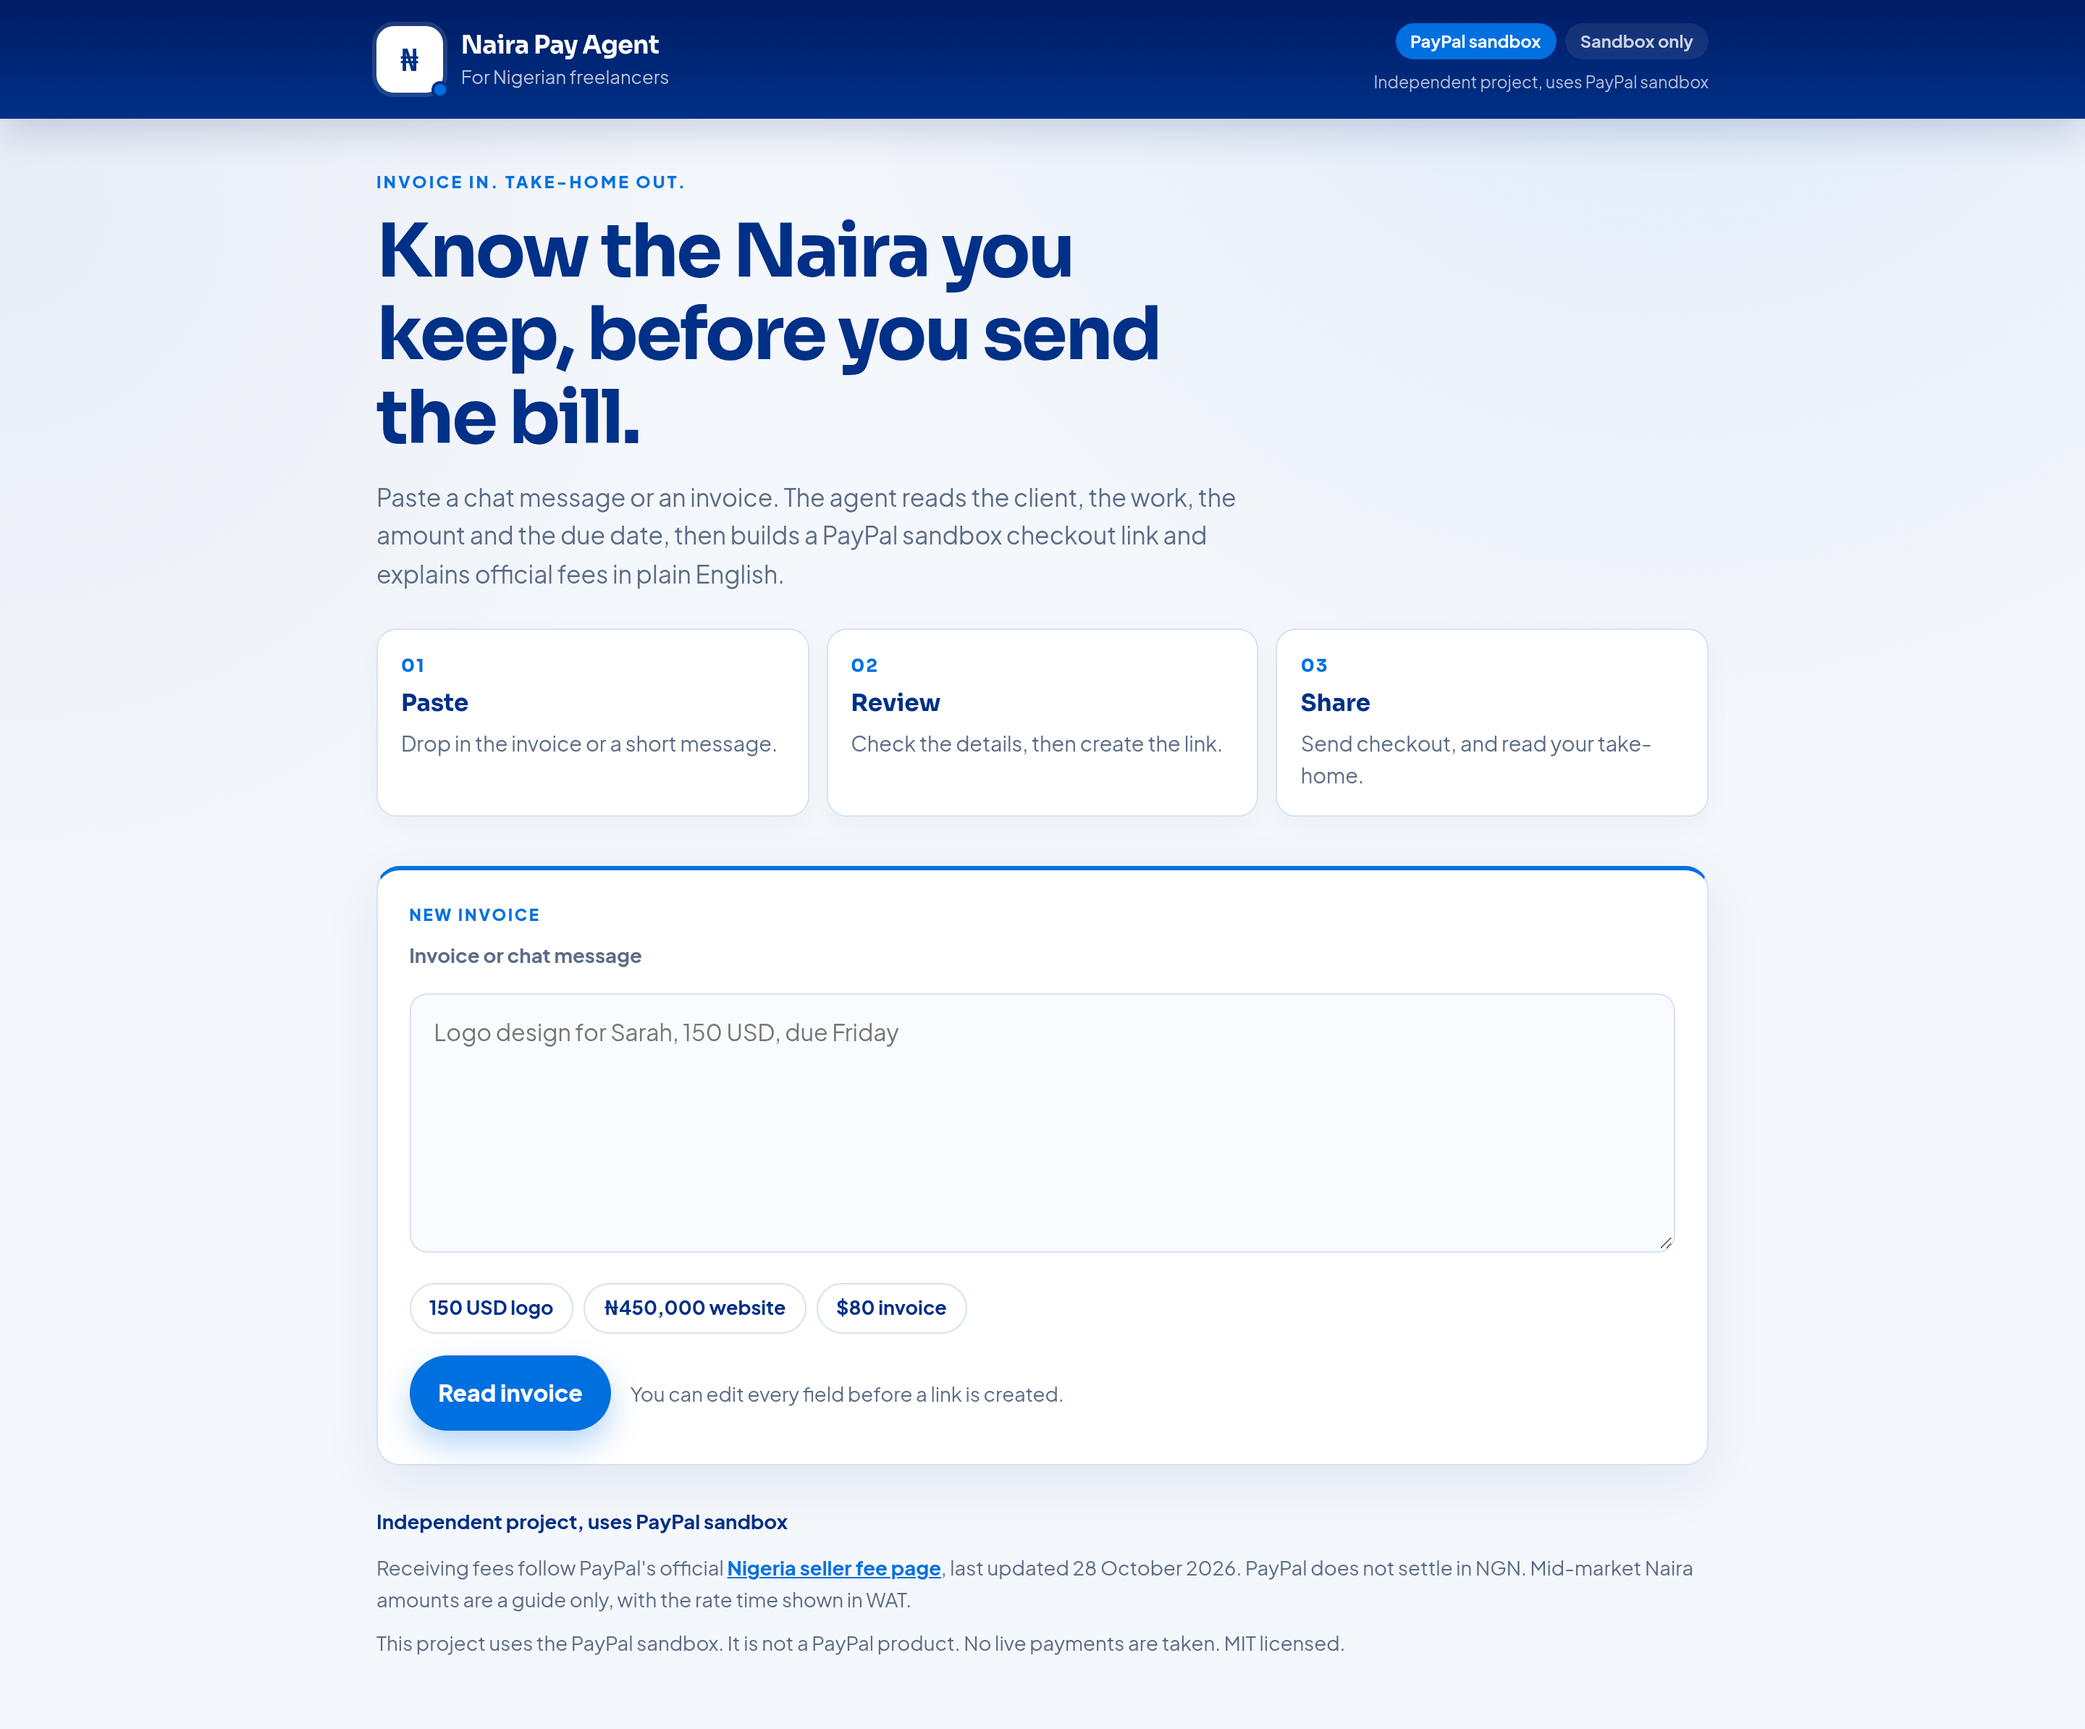
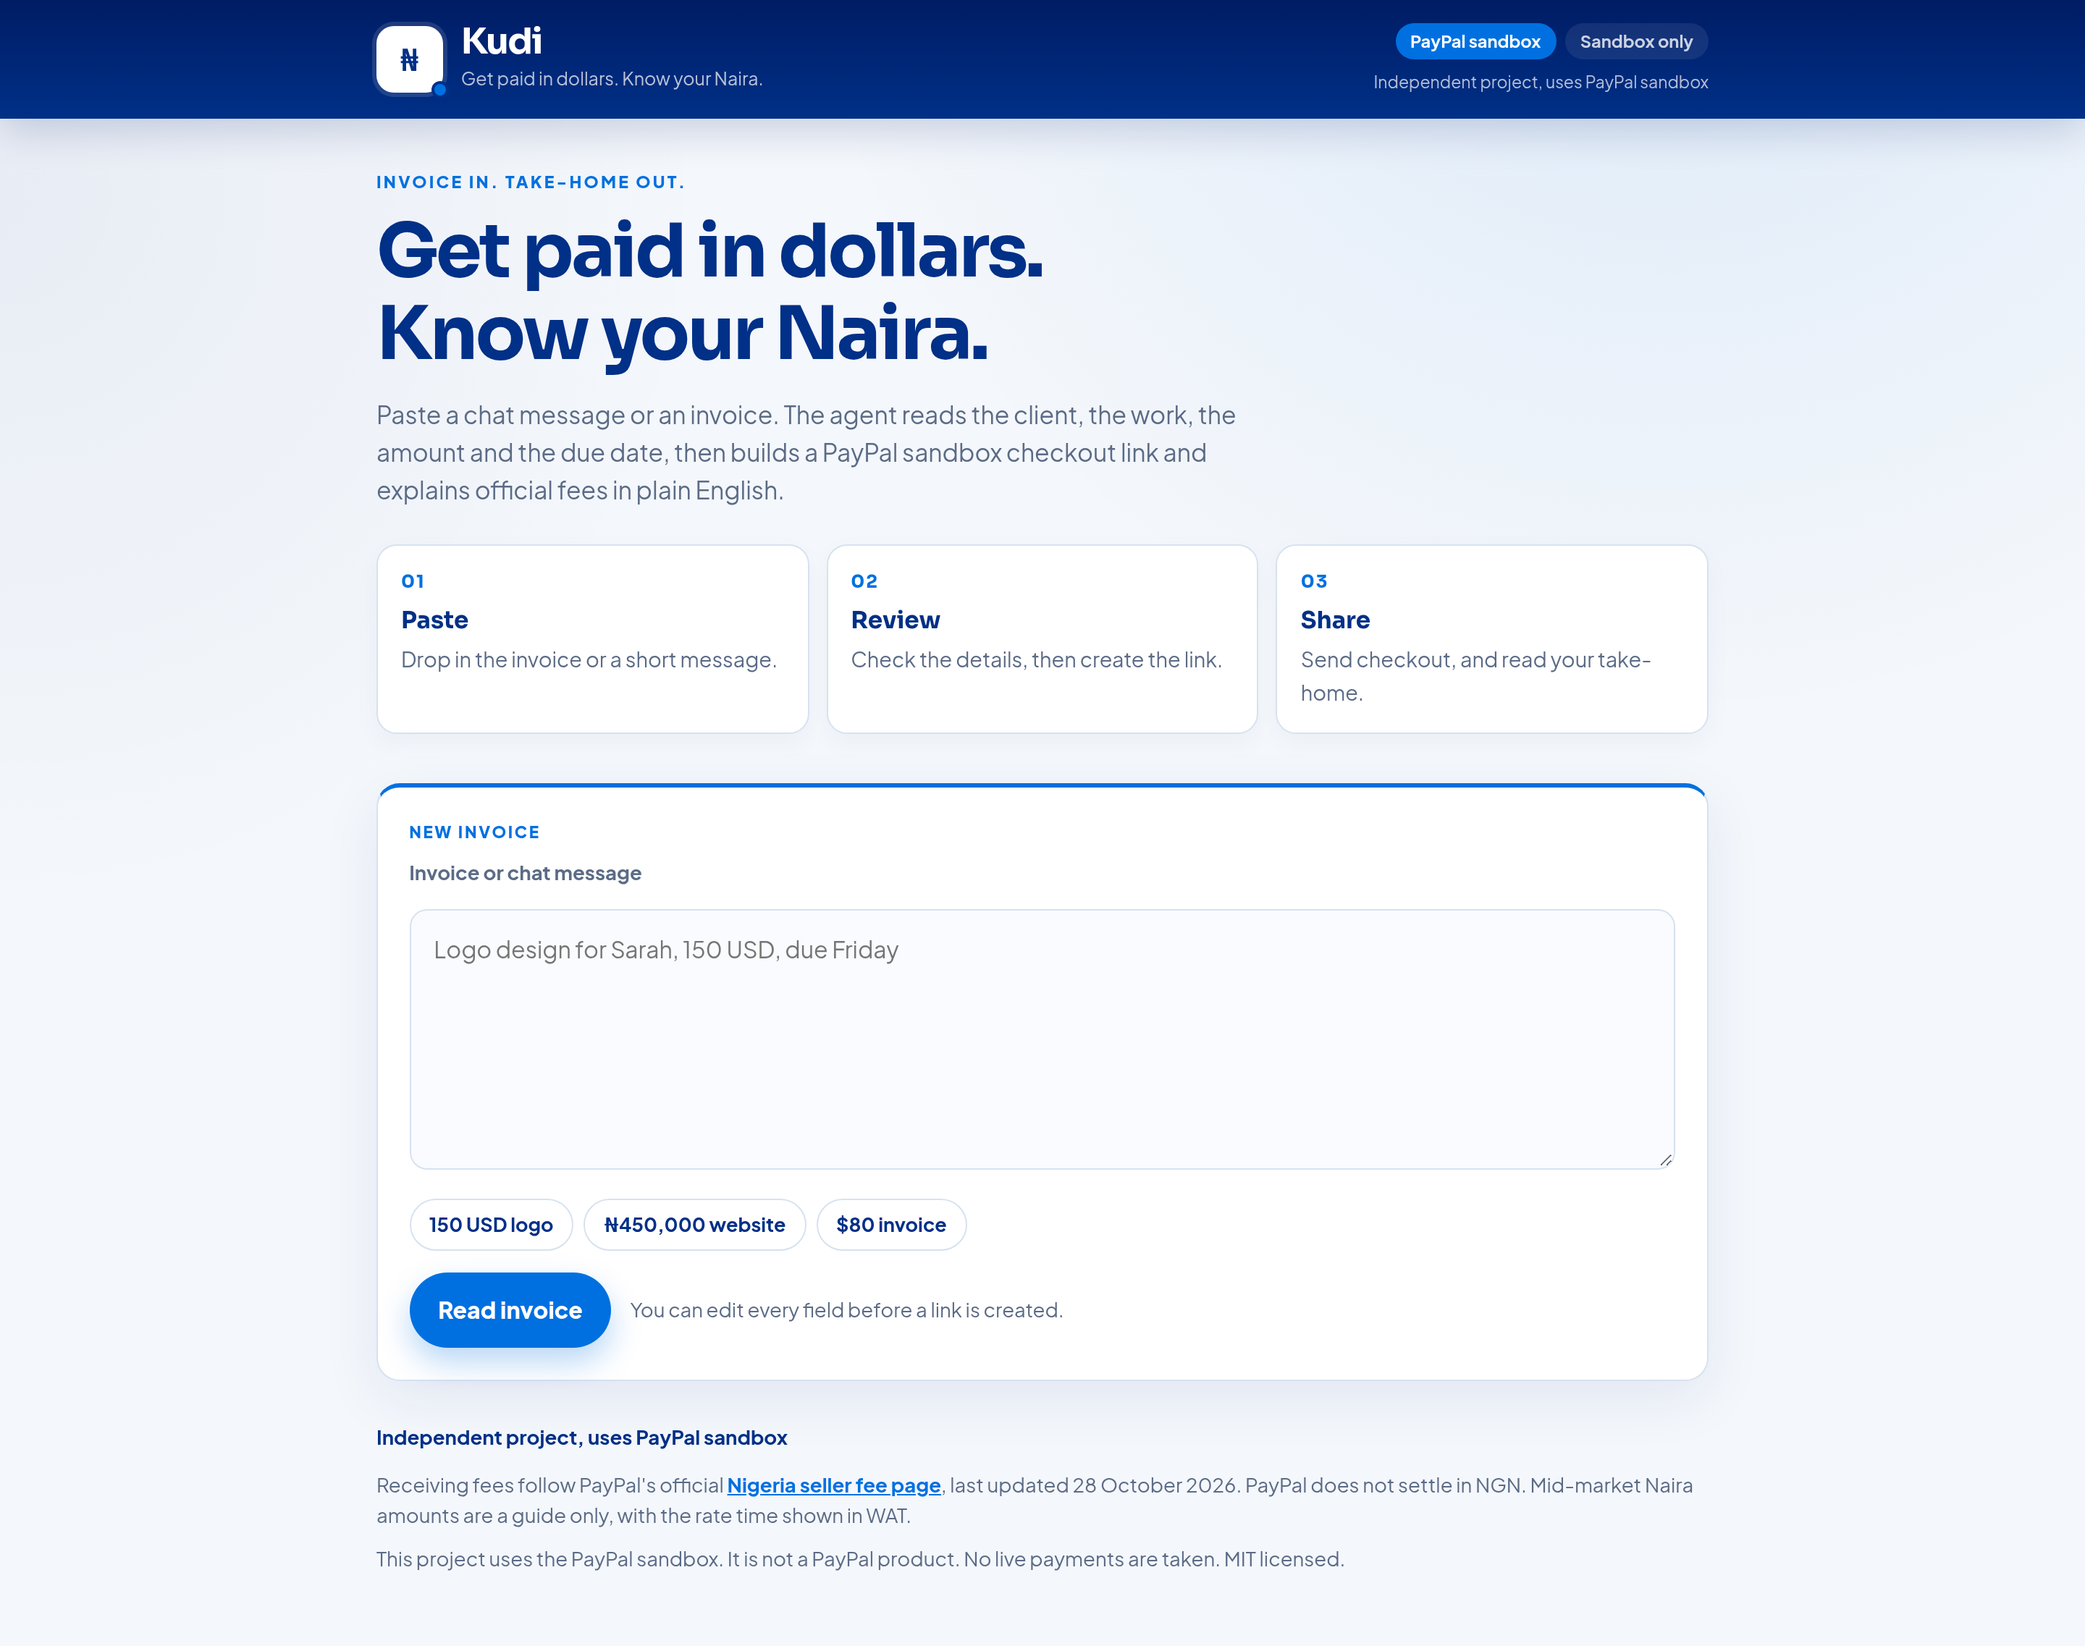
Brand the PayPal agent as Kudi, with the wordmark and tagline.
Rename the UI, README, Devpost write-up, and YouTube title to Kudi
(Hausa for money) and "Get paid in dollars. Know your Naira." Leave
the GitHub and Render URLs unchanged.

diff --git a/app/static/index.html b/app/static/index.html
@@ -3,10 +3,10 @@
   <head>
     <meta charset="utf-8" />
     <meta name="viewport" content="width=device-width, initial-scale=1" />
-    <title>Naira Freelancer Pay Agent</title>
+    <title>Kudi: Get paid in dollars. Know your Naira.</title>
     <meta
       name="description"
-      content="Paste an invoice, get a PayPal sandbox payment link, and see what a Nigerian freelancer actually takes home."
+      content="Kudi helps Nigerian freelancers turn an invoice into a PayPal sandbox payment link and see the Naira they keep."
     />
     <link rel="preconnect" href="https://fonts.googleapis.com" />
     <link rel="preconnect" href="https://fonts.gstatic.com" crossorigin />
@@ -22,8 +22,8 @@
         <div class="brand">
           <span class="mark" aria-hidden="true">₦</span>
           <div>
-            <p class="brand-name">Naira Pay Agent</p>
-            <p class="brand-sub">For Nigerian freelancers</p>
+            <p class="brand-name">Kudi</p>
+            <p class="brand-sub">Get paid in dollars. Know your Naira.</p>
           </div>
         </div>
         <div class="header-meta">
@@ -39,7 +39,7 @@
     <main class="inner">
       <section class="hero">
         <p class="eyebrow">Invoice in. Take-home out.</p>
-        <h1>Know the Naira you keep, before you send the bill.</h1>
+        <h1>Get paid in dollars.<br />Know your Naira.</h1>
         <p class="lede">
           Paste a chat message or an invoice. The agent reads the client, the work,
           the amount and the due date, then builds a PayPal sandbox checkout link

diff --git a/app/static/styles.css b/app/static/styles.css
@@ -80,13 +80,14 @@ body {
 .brand-name {
   margin: 0;
   font-family: var(--display);
-  font-weight: 650;
-  font-size: 1.08rem;
-  letter-spacing: -0.02em;
+  font-weight: 700;
+  font-size: 1.55rem;
+  letter-spacing: -0.04em;
+  line-height: 1;
   white-space: nowrap;
   color: #fff;
 }
-.brand-sub { margin: 0; color: rgba(255, 255, 255, 0.72); font-size: 0.8rem; }
+.brand-sub { margin: 0.18rem 0 0; color: rgba(255, 255, 255, 0.72); font-size: 0.78rem; }
 .header-meta { text-align: right; }
 .header-meta .independent {
   margin: 0.4rem 0 0;
@@ -130,7 +131,7 @@ h1 {
   margin: 0 0 0.9rem;
   letter-spacing: -0.035em;
   color: var(--navy);
-  max-width: 16ch;
+  max-width: 11em;
 }
 .lede {
   margin: 0 0 1.5rem;

diff --git a/app/server.py b/app/server.py
@@ -1,4 +1,4 @@
-"""HTTP API and static UI for the Naira Freelancer Pay Agent."""
+"""HTTP API and static UI for Kudi."""
 
 from __future__ import annotations
 
@@ -32,7 +32,7 @@ ROOT = Path(__file__).resolve().parent
 STATIC = ROOT / "static"
 
 app = FastAPI(
-    title="Naira Freelancer Pay Agent",
+    title="Kudi",
     version=__version__,
     docs_url=None,
     redoc_url=None,

diff --git a/tests/test_api.py b/tests/test_api.py
@@ -26,7 +26,8 @@ def test_health_and_status(monkeypatch):
 def test_index_is_served():
     response = client.get("/")
     assert response.status_code == 200
-    assert "Naira Freelancer Pay Agent" in response.text
+    assert "Kudi" in response.text
+    assert "Get paid in dollars. Know your Naira." in response.text
     assert "—" not in response.text
 
 

diff --git a/app/paypal.py b/app/paypal.py
@@ -128,7 +128,7 @@ def create_checkout_link(
     description: str,
     return_url: str,
     cancel_url: str,
-    brand_name: str = "Naira Freelancer Pay",
+    brand_name: str = "Kudi",
 ) -> CheckoutLink:
     code = currency.upper()
     if code not in PAYPAL_CHECKOUT_CURRENCIES:

diff --git a/app/__init__.py b/app/__init__.py
@@ -1,3 +1,3 @@
-"""Naira Freelancer Pay Agent."""
+"""Kudi: Get paid in dollars. Know your Naira."""
 
 __version__ = "0.1.0"

diff --git a/docs/DEVPOST-WRITEUP.md b/docs/DEVPOST-WRITEUP.md
@@ -1,6 +1,7 @@
 # Devpost write-up (draft, not submitted)
 
-Project: Naira Freelancer Pay Agent
+Project: Kudi
+Tagline: Get paid in dollars. Know your Naira.
 Live demo: https://naira-pay-agent.onrender.com
 Code: https://github.com/Nwa-Ani/naira-pay-agent
 Builder: Nwa-Ani (@heisevo)
@@ -13,8 +14,9 @@ Nigerian freelancers are often paid in dollars, euros, or pounds through PayPal,
 then have to guess what will actually land after fees, and what that is worth
 in Naira. PayPal does not settle in NGN, official receiving fees are easy to
 misread, and invoices still arrive as messy WhatsApp messages. I wanted a
-small agent that turns that chat into a checkout link and a plain-English
-take-home figure, built for someone working from Nigeria.
+small agent, named Kudi (Hausa for money), that turns that chat into a
+checkout link and a plain-English take-home figure, built for someone
+working from Nigeria.
 
 ## What it does
 
@@ -101,10 +103,10 @@ asking website users to connect a wallet or share a live PayPal login.
 ## YouTube demo (draft)
 
 Title:
-Naira Pay Agent: PayPal sandbox checkout and Naira take-home for freelancers
+Kudi: Get paid in dollars. Know your Naira.
 
 Description:
-Naira Freelancer Pay Agent helps a Nigerian freelancer turn a messy invoice or
+Kudi helps a Nigerian freelancer turn a messy invoice or
 chat message into a PayPal sandbox payment link, then explains official PayPal
 fees and a mid-market Naira estimate in plain English.
 

diff --git a/README.md b/README.md
@@ -1,6 +1,8 @@
-# Naira Freelancer Pay Agent
+# Kudi
 
-A PayPal AI hackathon project for Nigerian freelancers. Paste an invoice or a
+**Get paid in dollars. Know your Naira.**
+
+Kudi (Hausa for money) is a PayPal AI hackathon project for Nigerian freelancers. Paste an invoice or a
 chat message, get a PayPal sandbox payment link, and read a plain-English
 breakdown of what the client pays, what PayPal keeps, and what you actually
 take home, including a mid-market Naira estimate.

diff --git a/docs/SUBMISSION-DRAFT.md b/docs/SUBMISSION-DRAFT.md
@@ -45,7 +45,7 @@ mid-market FX. FastAPI and a static front end, ready to host on Render.
 
 ## Suggested short description
 
-Naira Freelancer Pay Agent helps a Nigerian freelancer turn a messy invoice or
+Kudi helps a Nigerian freelancer turn a messy invoice or
 chat message into a PayPal sandbox payment link, then explains official PayPal
 fees and a mid-market Naira estimate in plain English. PayPal does not settle
 in NGN, and the app says so clearly.
